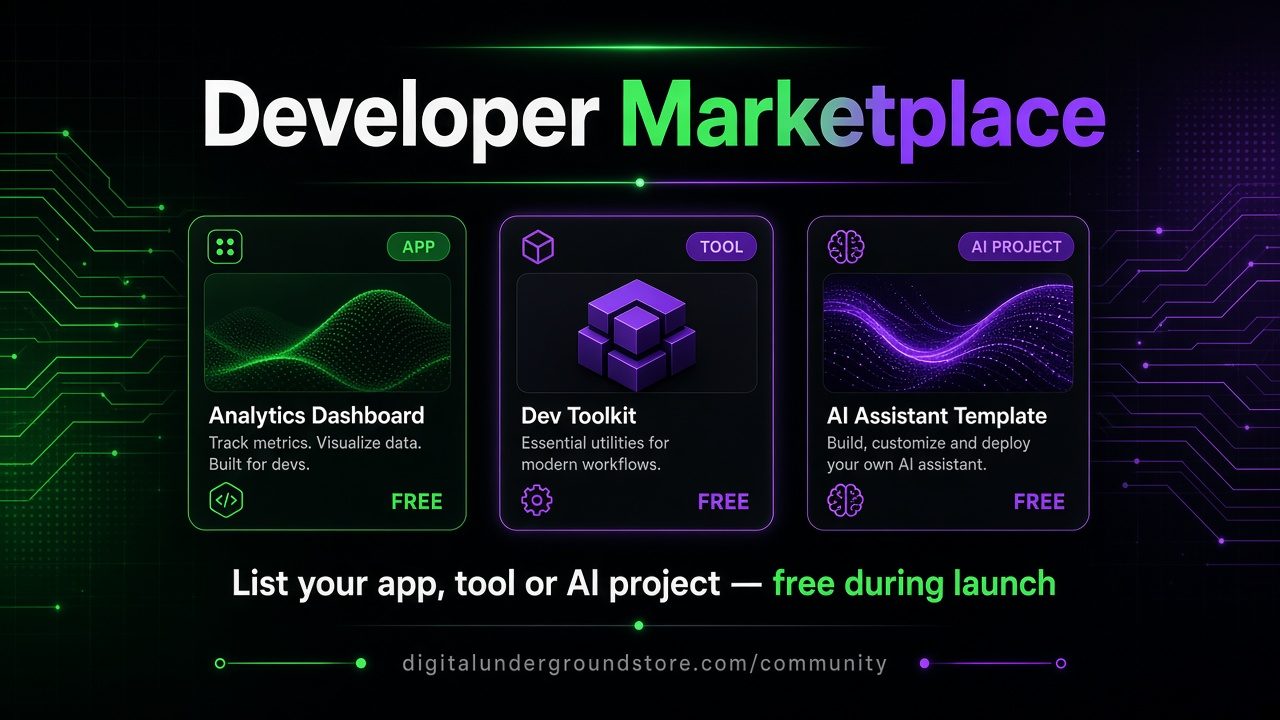
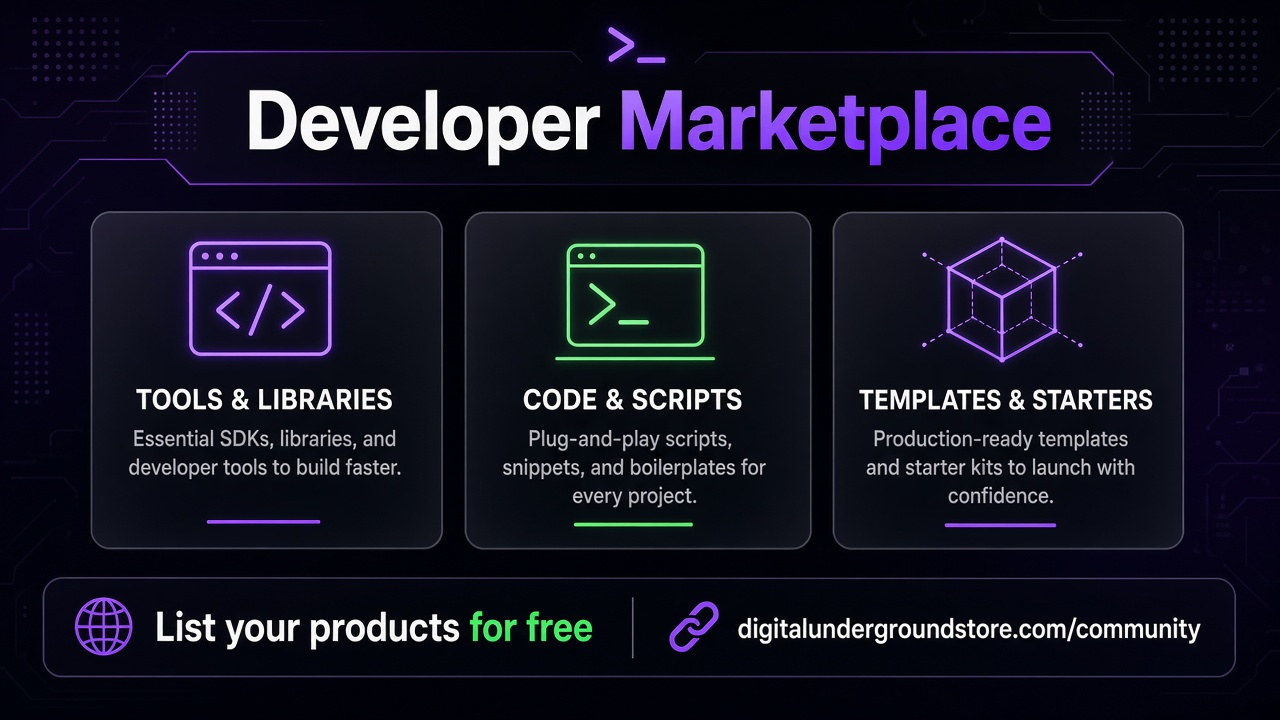
Copy: list your products for free (drop launch limit)
Replace free-during-launch badges, FAQ, and OG/Twitter blurbs with
ongoing free listing language; refresh community/og.jpg from og-v2.

Changed region(s): [[0.0, 0.0306, 1.0, 0.9472], [0.9688, 0.4278, 1.0, 0.4583]]

diff --git a/community/index.html b/community/index.html
@@ -4,10 +4,10 @@
 <meta charset="utf-8">
 <meta name="viewport" content="width=device-width, initial-scale=1">
 <title>Developer Marketplace — Digital Underground</title>
-<meta name="description" content="Browse indie apps, AI tools, books, and templates from makers. Free to list during launch; checkout stays on the maker's site.">
+<meta name="description" content="Browse indie apps, AI tools, books, and templates from makers. List your products for free; checkout stays on the maker's site.">
 <link rel="canonical" href="https://digitalundergroundstore.com/community/">
 <meta property="og:title" content="Developer Marketplace — Digital Underground">
-<meta property="og:description" content="Indie apps, AI tools, books, and templates from makers. Free to list during launch; link-out only — we do not process payments.">
+<meta property="og:description" content="Indie apps, AI tools, books, and templates from makers. List your products for free; link-out only — we do not process payments.">
 <meta property="og:type" content="website">
 <meta property="og:url" content="https://digitalundergroundstore.com/community/">
 <meta property="og:image" content="https://digitalundergroundstore.com/community/og.jpg">
@@ -15,7 +15,7 @@
 <meta property="og:image:height" content="720">
 <meta name="twitter:card" content="summary_large_image">
 <meta name="twitter:title" content="Developer Marketplace — Digital Underground">
-<meta name="twitter:description" content="Indie apps, AI tools, books, and templates from makers. Free to list during launch; checkout stays on the maker's site.">
+<meta name="twitter:description" content="Indie apps, AI tools, books, and templates from makers. List your products for free; checkout stays on the maker's site.">
 <meta name="twitter:image" content="https://digitalundergroundstore.com/community/og.jpg">
 <meta name="theme-color" content="#05040c">
 <link rel="stylesheet" href="community.css">
@@ -32,7 +32,7 @@
       <a href="/community/" aria-current="page">Developer Marketplace</a>
       <span class="cta-wrap">
         <a class="cta" href="/community/submit/">List your project</a>
-        <span class="launch-badge">Free during launch</span>
+        <span class="launch-badge">List your products for free</span>
       </span>
     </nav>
   </div>
@@ -57,9 +57,8 @@
     <h2 id="faq-title">FAQ</h2>
     <details>
       <summary>Is it free to list?</summary>
-      <p>Yes. Listing in the Developer Marketplace is free. We do not take a cut of sales — buyers pay you on your own checkout.</p>
-      <p>Listing is free during our launch. Later we may offer optional paid Featured spots; existing free listings stay free.</p>
-    </details>
+      <p>Yes. Listing in the Developer Marketplace is free — list your products for free anytime. We do not take a cut of sales; buyers pay you on your own checkout.</p>
+          </details>
     <details>
       <summary>How does review work?</summary>
       <p>Clean listings can go live after automated checks. Edge cases are held for a quick human review. We filter spam, scams, and malware; typical human review is a few days.</p>

diff --git a/community/submit/index.html b/community/submit/index.html
@@ -4,16 +4,16 @@
 <meta charset="utf-8">
 <meta name="viewport" content="width=device-width, initial-scale=1">
 <title>List your project — Developer Marketplace — Digital Underground</title>
-<meta name="description" content="Submit your app or digital product to the Digital Underground Developer Marketplace. Free to list during launch.">
+<meta name="description" content="Submit your app or digital product to the Digital Underground Developer Marketplace. List your products for free.">
 <link rel="canonical" href="https://digitalundergroundstore.com/community/submit/">
 <meta property="og:title" content="List your project — Developer Marketplace — Digital Underground">
-<meta property="og:description" content="List your indie app or digital product on Digital Underground. Free during launch; checkout stays on your site.">
+<meta property="og:description" content="List your products for free on Digital Underground. Checkout stays on your site.">
 <meta property="og:type" content="website">
 <meta property="og:url" content="https://digitalundergroundstore.com/community/submit/">
 <meta property="og:image" content="https://digitalundergroundstore.com/community/og.jpg">
 <meta name="twitter:card" content="summary_large_image">
 <meta name="twitter:title" content="List your project — Developer Marketplace — Digital Underground">
-<meta name="twitter:description" content="List your indie app or digital product on Digital Underground. Free during launch; checkout stays on your site.">
+<meta name="twitter:description" content="List your products for free on Digital Underground. Checkout stays on your site.">
 <meta name="twitter:image" content="https://digitalundergroundstore.com/community/og.jpg">
 <meta name="theme-color" content="#05040c">
 <link rel="stylesheet" href="../community.css">
@@ -31,13 +31,13 @@
       <a href="/community/">Developer Marketplace</a>
       <span class="cta-wrap">
         <a class="cta" href="/community/submit/" aria-current="page">List your project</a>
-        <span class="launch-badge">Free during launch</span>
+        <span class="launch-badge">List your products for free</span>
       </span>
     </nav>
   </div>
   <header class="page-head">
     <h1>List your project</h1>
-    <p>Tell us about your app or digital product. Listing is <strong>free during launch</strong>. Clean submissions go <strong>live automatically</strong> after automated checks; edge cases wait for a quick human review. Checkout stays on your site — we only link out.</p>
+    <p>Tell us about your app or digital product. <strong>List your products for free</strong>. Clean submissions go <strong>live automatically</strong> after automated checks; edge cases wait for a quick human review. Checkout stays on your site — we only link out.</p>
   </header>
   <div id="msg" class="form-msg" hidden role="status"></div>
   <form class="stack" id="form" novalidate>

diff --git a/store/index.html b/store/index.html
@@ -590,7 +590,7 @@
         <a class="hero-cta-secondary" href="#featured">Bestsellers</a>
         <span class="list-cta-wrap">
           <a class="hero-cta-secondary" href="/community/submit/">List your project</a>
-          <span class="launch-badge">Free during launch</span>
+          <span class="launch-badge">List your products for free</span>
         </span>
       </div>
       </div>
